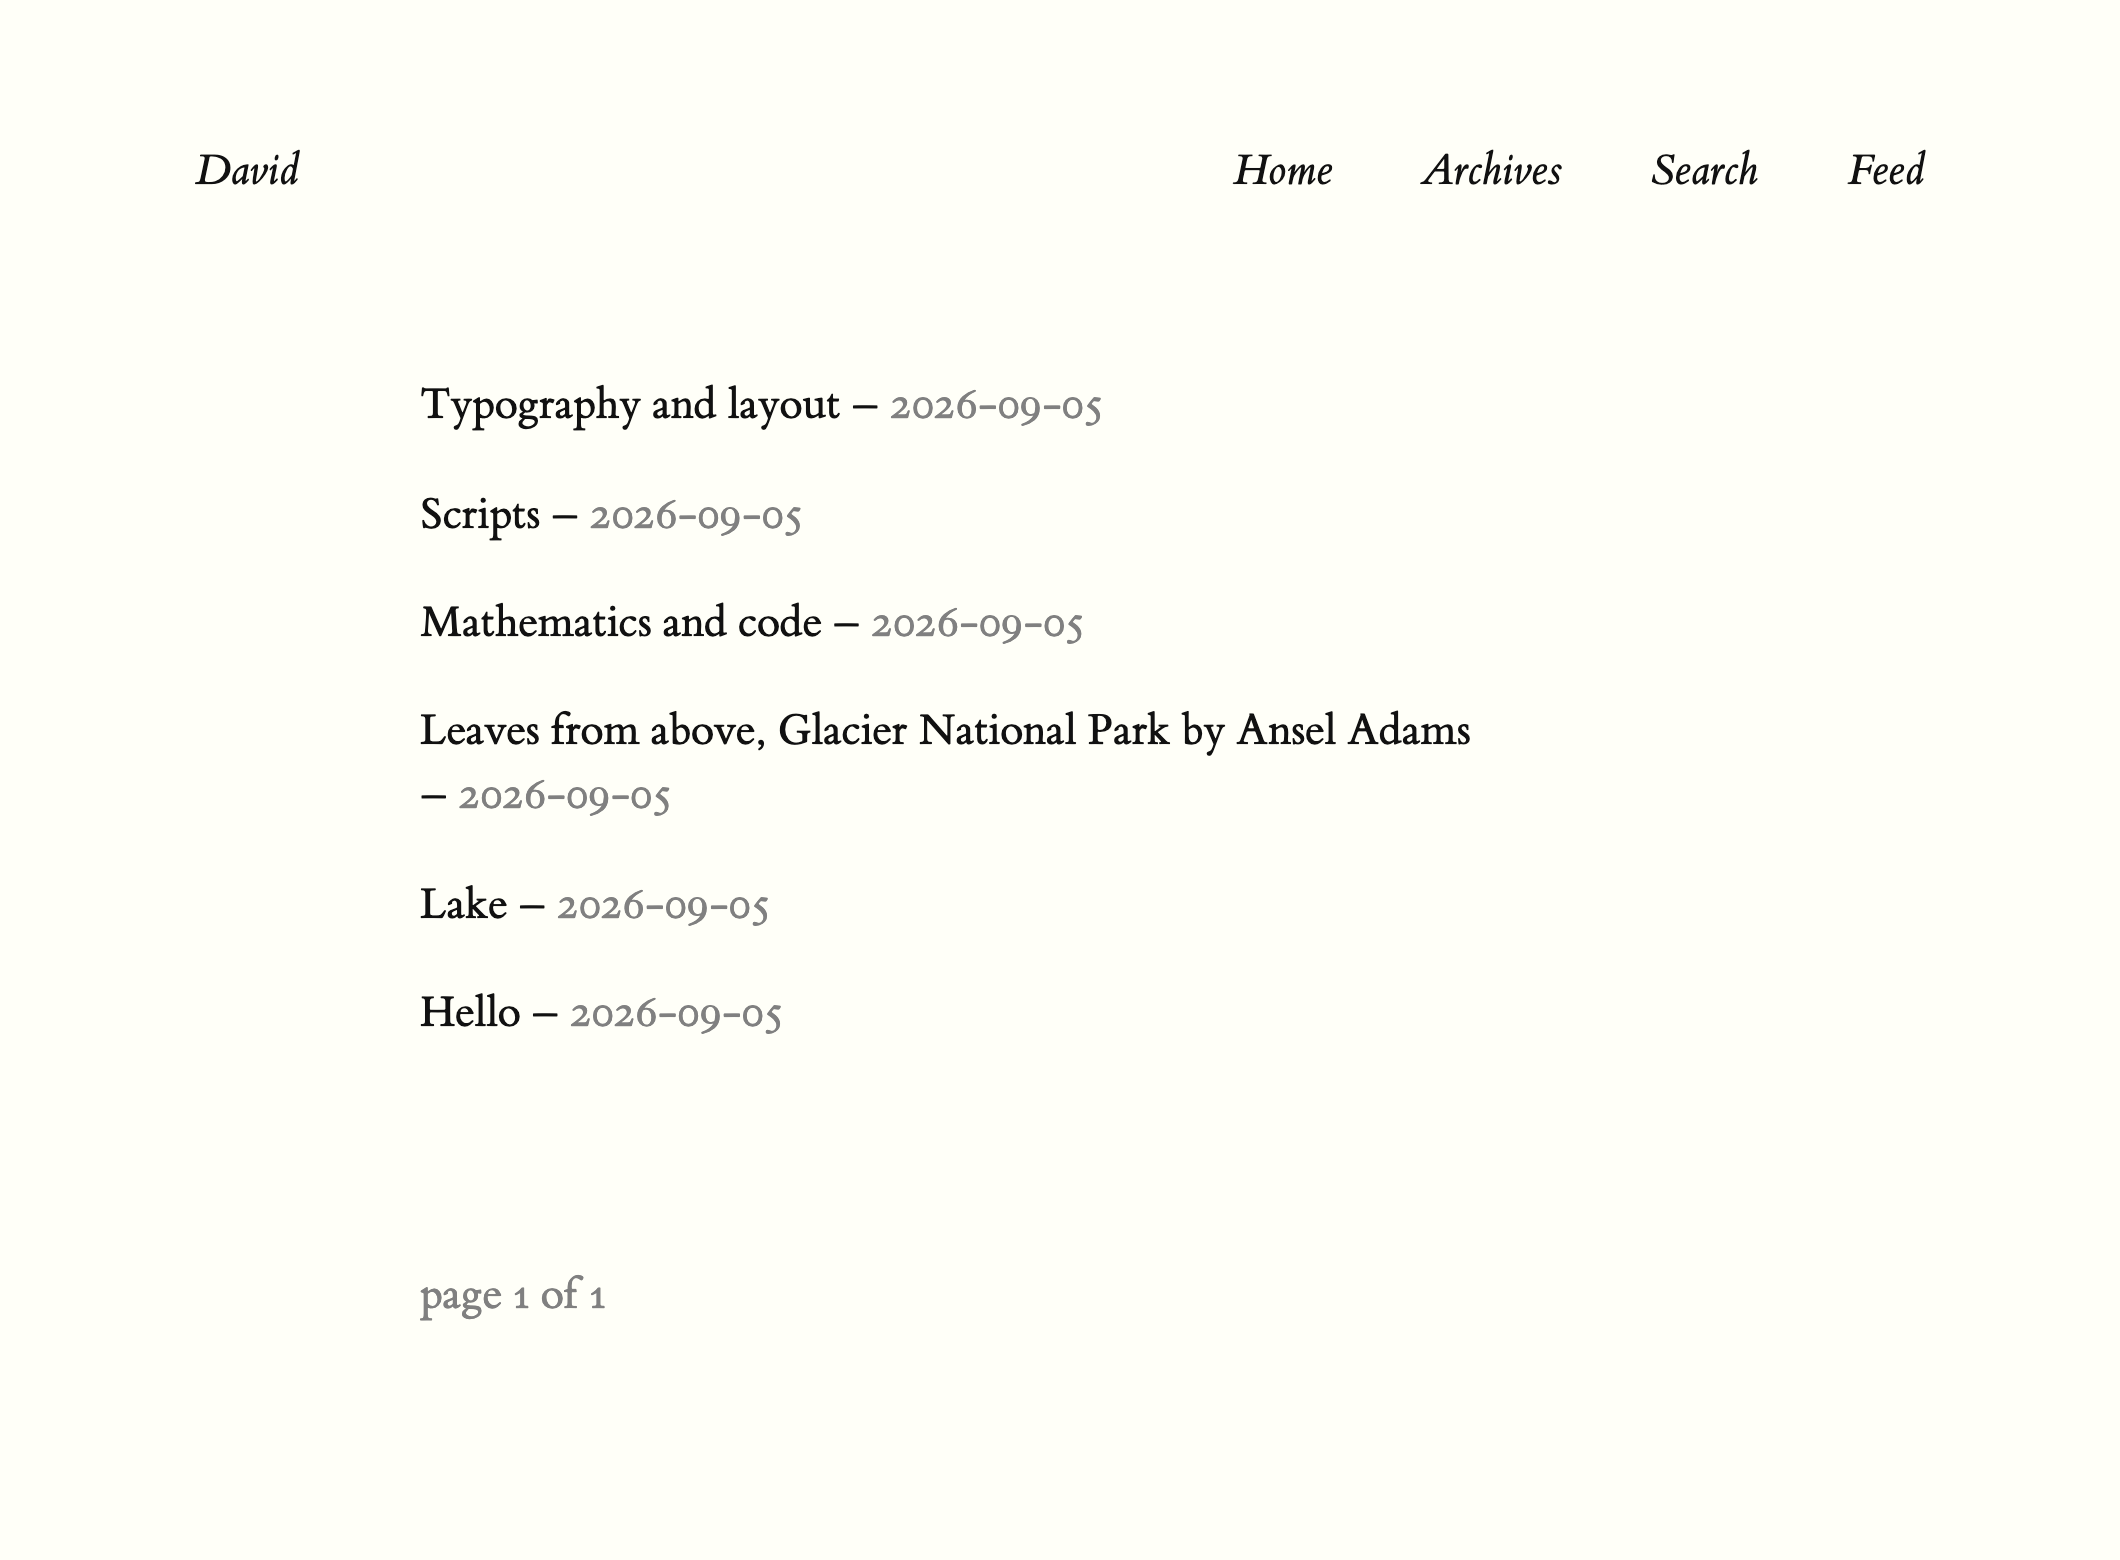
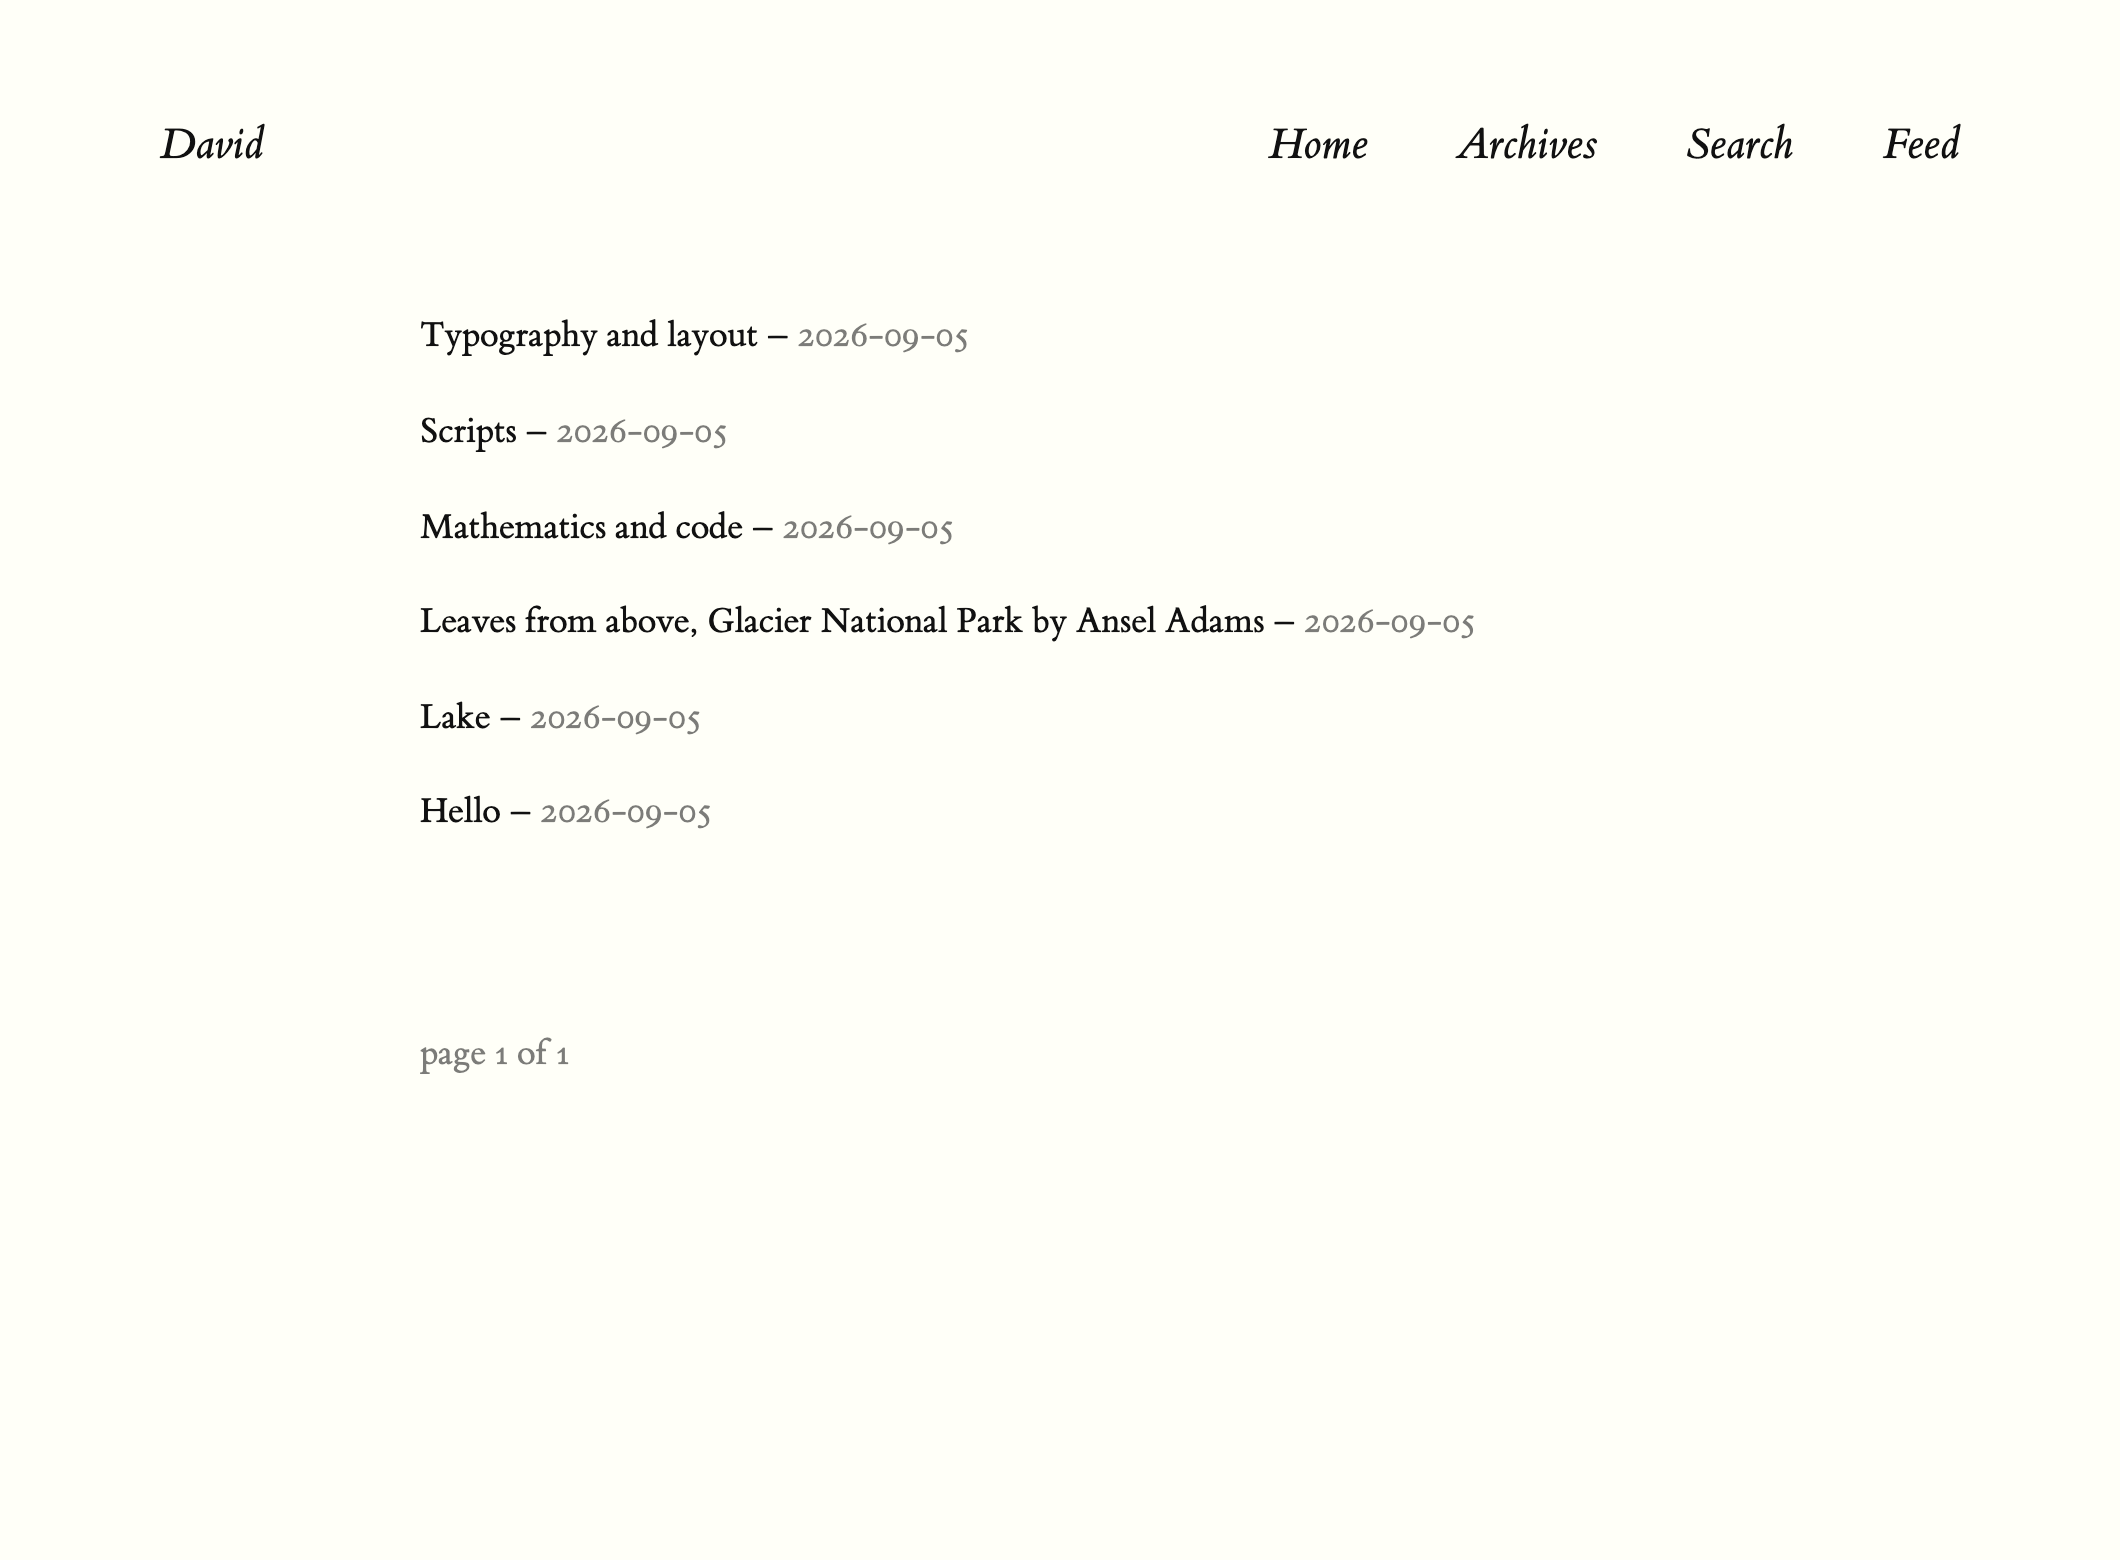
Expose Journal template settings as dashboard controls

diff --git a/app/templates/source/journal/style.css b/app/templates/source/journal/style.css
@@ -1,9 +1,14 @@
 {{{body_font.styles}}}
+{{{heading_font.styles}}}
+{{{syntax_highlighter_font.styles}}}
+{{{syntax_highlighter.styles}}}
 
 body {
-  font-size: 1.4rem;
-  line-height: 2rem;
-  font-family: {{{body_font.stack}}};
+  {{#body_font}}
+  font-size: {{{font_size}}}px;
+  line-height: {{{line_height}}};
+  font-family: {{{stack}}};
+  {{/body_font}}
   color: {{text_color}};
   background: {{background_color}};
   padding: 3em 4em 5em;
@@ -11,7 +16,7 @@ body {
 }
 
 .container {
-  max-width: 640px;
+  max-width: {{max_width}}px;
   min-width: 320px;
   margin: 4em auto 2em;
   padding-right: 33%;
@@ -49,24 +54,38 @@ h1, h2, h3, h4, h5, h6 {font-size: inherit;}
 
 h2, h3 {margin-top: 2em}
 
-h1 {font-size: 48px;line-height: 48px;margin-bottom: 60px;margin-top:60px}
+h1 {
+  {{#heading_font}}
+  font-family: {{{stack}}};
+  font-size: {{{font_size}}}px;
+  line-height: {{{line_height}}};
+  {{/heading_font}}
+  margin-bottom: 60px;
+  margin-top:60px
+}
 
 h2 {
-font-style: italic;
+  {{#heading_font}}
+  font-family: {{{stack}}};
+  font-size: {{{font_size}}}px;
+  line-height: {{{line_height}}};
+  {{/heading_font}}
+  font-style: italic;
   font-weight: 400;
   margin-top: 3.1rem;
   margin-bottom: 1.4rem;
-  font-size: 2.2rem;
-  line-height: 1;
-  }
-  
-  h3 {
+}
+
+h3 {
+  {{#heading_font}}
+  font-family: {{{stack}}};
+  font-size: {{{font_size}}}px;
+  line-height: {{{line_height}}};
+  {{/heading_font}}
   font-style: italic;
   font-weight: 400;
-  font-size: 1.7rem;
   margin-top: 2rem;
   margin-bottom: 1.4rem;
-  line-height: 1;
 }
 
 a {color: {{link_color}};
@@ -77,9 +96,33 @@ a:hover {text-decoration: underline}
 
 .site-header {
   display: flex;
-  align-items: center;
-  justify-content: space-between;
+  align-items: baseline;
+  flex-wrap: wrap;
+  gap: 0.5em 2em;
 }
+
+{{#is.navigation_alignment.justified}}
+.site-header {justify-content: space-between;}
+{{/is.navigation_alignment.justified}}
+{{#is.navigation_alignment.left}}
+.site-header {justify-content: flex-start;}
+{{/is.navigation_alignment.left}}
+{{#is.navigation_alignment.right}}
+.site-header {justify-content: flex-end;}
+{{/is.navigation_alignment.right}}
+{{#is.navigation_alignment.center}}
+.site-header {justify-content: center;}
+{{/is.navigation_alignment.center}}
+
+{{#sticky_navigation}}
+.site-header {
+  position: sticky;
+  top: 0;
+  z-index: 2;
+  background: {{background_color}};
+  padding: 1em 0;
+}
+{{/sticky_navigation}}
 
 .logo, .nav {
 font-style: italic;
@@ -88,6 +131,12 @@ line-height: 1;
 }
 
 .logo {text-decoration: none}
+
+.logo img {
+  max-height: 2.2em;
+  width: auto;
+  vertical-align: middle;
+}
 
 .nav {
   display: flex;
@@ -98,11 +147,18 @@ line-height: 1;
 
 .index-date {white-space: nowrap}
 
+{{#is.navigation_alignment.left}}
+.nav a:first-child {margin-left: 0}
+{{/is.navigation_alignment.left}}
+{{#is.navigation_alignment.center}}
+.nav a:first-child {margin-left: 0}
+{{/is.navigation_alignment.center}}
+
 .small, .light {color: {{text_color}}}
 
 .small {font-size: 12px}
 
-.light {color: Gray; text-decoration: none}
+.light {color: rgba({{#rgb}}{{text_color}}{{/rgb}}, 0.55); text-decoration: none}
 
 .first {text-decoration: none}
 
@@ -148,7 +204,7 @@ input[type="text"] {
   background: none;
   max-width: 100%;
   min-width: 300px;
-  box-shadow: inset 0 1px 2px 0 rgba(0,0,0,.075);
+  box-shadow: inset 0 1px 2px 0 rgba({{#rgb}}{{text_color}}{{/rgb}},.075);
 }
 
 input[type="submit"] {
@@ -185,10 +241,29 @@ input[type="submit"] {
 
 @media screen and (max-width: 900px) {
   .index .margin {display: block;width: 100%}
-  .container {margin: 1em 0 2em;padding-top:1.5em;border-top:1px solid rgba(0,0,0,0.1);min-width: auto}
-  .site-header {flex-wrap: wrap}
-  .nav {float: none;display: block;margin: 0;width: 100%}
+  .container {margin: 1em 0 2em;padding-top:1.5em;border-top:1px solid rgba({{#rgb}}{{text_color}}{{/rgb}},0.1);min-width: auto}
+  .site-header {flex-direction: column;}
+  .nav {float: none;display: flex;margin: 0;width: 100%}
   .nav a {margin: 0 1em 0 0;color:{{text_color}};}
+  .nav a:last-child {margin-right: 0;}
+
+  {{#is.navigation_alignment.justified}}
+  .site-header {align-items: stretch;}
+  .nav {justify-content: space-between;}
+  .nav a {margin-left: 0;margin-right: 0;}
+  {{/is.navigation_alignment.justified}}
+  {{#is.navigation_alignment.left}}
+  .site-header {align-items: flex-start;}
+  .nav {justify-content: flex-start;}
+  {{/is.navigation_alignment.left}}
+  {{#is.navigation_alignment.right}}
+  .site-header {align-items: flex-end;}
+  .nav {justify-content: flex-end;}
+  {{/is.navigation_alignment.right}}
+  {{#is.navigation_alignment.center}}
+  .site-header {align-items: center;}
+  .nav {justify-content: center;}
+  {{/is.navigation_alignment.center}}
   
 .container h1 {
 width: 100%

diff --git a/app/templates/source/journal/plugin.css b/app/templates/source/journal/plugin.css
@@ -22,110 +22,19 @@ blockquote.twitter-tweet p {margin: 0}
 /* IMAGE SIZE */
 img {max-width: 100%;height: auto;}
 
-/* CODE HIGHLIGHTING */
-
+/* CODE */
 pre {
   padding: 0.7em 1em;
-  background: {{light_background}};
   margin: 0 -1em;
 }
 
-pre, code {font: inherit;}
-
-.hljs {
-  display: block;
-  overflow-x: auto;
+pre, code {
+  {{#syntax_highlighter_font}}
+  font-family: {{{stack}}};
+  font-size: {{{font_size}}}px;
+  line-height: {{{line_height}}};
+  {{/syntax_highlighter_font}}
 }
-
-.hljs-comment,
-.hljs-quote {
-  color: {{medium_text}};
-  font-style: italic;
-}
-
-.hljs-keyword,
-.hljs-selector-tag,
-.hljs-subst {
-  color: {{body_text_color}};
-  font-weight: bold;
-}
-
-.hljs-number,
-.hljs-literal {
-  color: {{medium_text}};
-}
-
-.hljs-string,
-.hljs-doctag,
-.hljs-formula {
-  color: {{medium_text}};
-  background: {{light_background}}
-}
-
-.hljs-title,
-.hljs-section,
-.hljs-selector-id {
-  color: {{body_text_color}};
-  font-weight: bold;
-}
-
-.hljs-subst {
-  font-weight: normal;
-}
-
-.hljs-class .hljs-title,
-.hljs-type,
-.hljs-name {
-  color: {{medium_text}};
-  font-weight: bold;
-}
-
-.hljs-tag {
-  color: {{medium_text}};
-}
-
-.hljs-regexp {
-    color: {{medium_text}};
-    background: {{light_background}}
-}
-
-.hljs-symbol,
-.hljs-bullet,
-.hljs-link {
-  color: {{body_text_color}};
-  background: {{light_background}}
-}
-
-.hljs-built_in,
-.hljs-builtin-name {
-  color: {{body_text_color}};
-  text-decoration: underline;
-}
-
-.hljs-meta {
-  color: {{body_text_color}};
-  opacity: 0.5;
-  font-weight: bold;
-}
-
-.hljs-deletion {
-  color: {{background_color}};
-  background: {{light_background}}
-}
-
-.hljs-addition {
-  color: {{body_text_color}};
-  background: {{light_background}}
-}
-
-.hljs-emphasis {
-  font-style: italic;
-}
-
-.hljs-strong {
-  font-weight: bold;
-}
-
 
 /* LAYOUT */
 

diff --git a/app/templates/source/journal/head.html b/app/templates/source/journal/head.html
@@ -12,7 +12,8 @@
   {{^entry}}<meta name="description" content="{{> description}}">{{/entry}}
 
   <link rel="alternate" type="application/rss+xml" title="RSS Feed for {{title}}" href="{{{siteURL}}}{{{feedURL}}}">
-  {{#avatar}}<link rel="icon" href="{{{avatar}}}" type="image/x-icon">{{/avatar}}
+  {{#favicon_url}}<link rel="icon" href="{{{favicon_url}}}" type="image/x-icon">{{/favicon_url}}
+  {{^favicon_url}}{{#avatar}}<link rel="icon" href="{{{avatar}}}" type="image/x-icon">{{/avatar}}{{/favicon_url}}
   <link rel="preconnect" href="{{{cdn}}}" />
   <link rel="stylesheet" href="{{#cdn}}/style.css{{/cdn}}">
 

diff --git a/app/templates/source/journal/header.html b/app/templates/source/journal/header.html
@@ -1,8 +1,8 @@
 <header class="site-header">
-  <a href="/" title="" class="logo">{{title}}</a>
-  <div class="nav">
+  <a href="/" title="{{title}}" class="logo">{{#logo_url}}<img src="{{{logo_url}}}" alt="{{title}}">{{/logo_url}}{{^logo_url}}{{title}}{{/logo_url}}</a>
+  <nav class="nav">
     {{#menu}}
     <a href="{{{url}}}" title="{{label}}">{{label}}</a>
     {{/menu}}
-  </div>
+  </nav>
 </header>

diff --git a/app/templates/source/journal/entries.html b/app/templates/source/journal/entries.html
@@ -9,7 +9,7 @@
       <p>
 
         <a class="first" href="{{{url}}}">{{title}}</a>
-        <span class="index-date">– <span class="light">{{date}}</span></span>
+        {{#date}}<span class="index-date">– <span class="light">{{date}}</span></span>{{/date}}
 <!--                  {{#tags.length}}
             {{#tags}}
             / <a class="light" href="/tagged/{{slug}}">{{name}}</a>

diff --git a/app/templates/source/journal/tagged.html b/app/templates/source/journal/tagged.html
@@ -7,7 +7,7 @@
       <h1>{{tag}}</h1>
       {{#entries}}
       <a href="{{{url}}}">{{title}}</a>
-      <span class="small">{{date}}</span>
+      {{#date}}<span class="small">{{date}}</span>{{/date}}
       <br>
       {{/entries}}
     </div>

diff --git a/app/templates/source/journal/search.html b/app/templates/source/journal/search.html
@@ -18,7 +18,7 @@
 
       {{#entries}}
         <a href="{{{url}}}">{{title}}</a>
-        <span class="small">{{date}}</span>
+        {{#date}}<span class="small">{{date}}</span>{{/date}}
         <br>
       {{/entries}}
     </div>

diff --git a/app/templates/source/journal/entry.html b/app/templates/source/journal/entry.html
@@ -14,7 +14,7 @@
 	
         <br>
          <p class="subtitle">
-          {{date}}
+          {{#date}}{{date}}{{/date}}
 
           {{#tags.length}}
           
